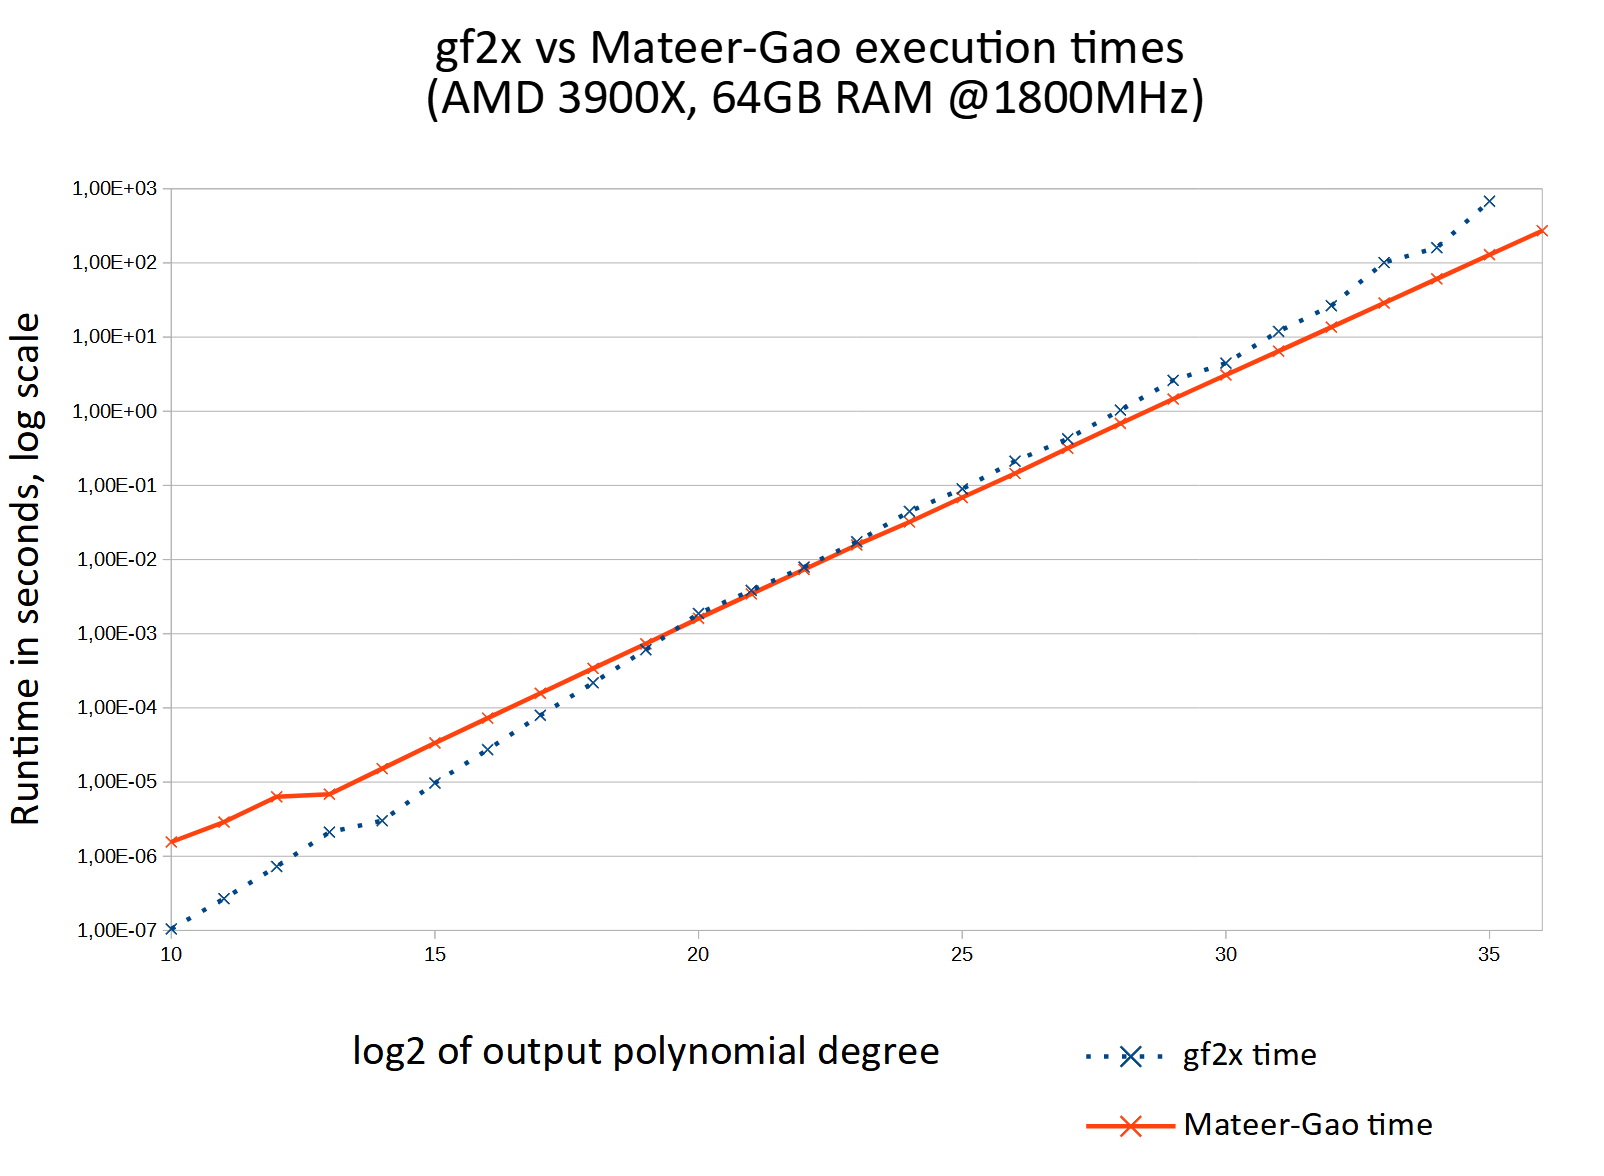
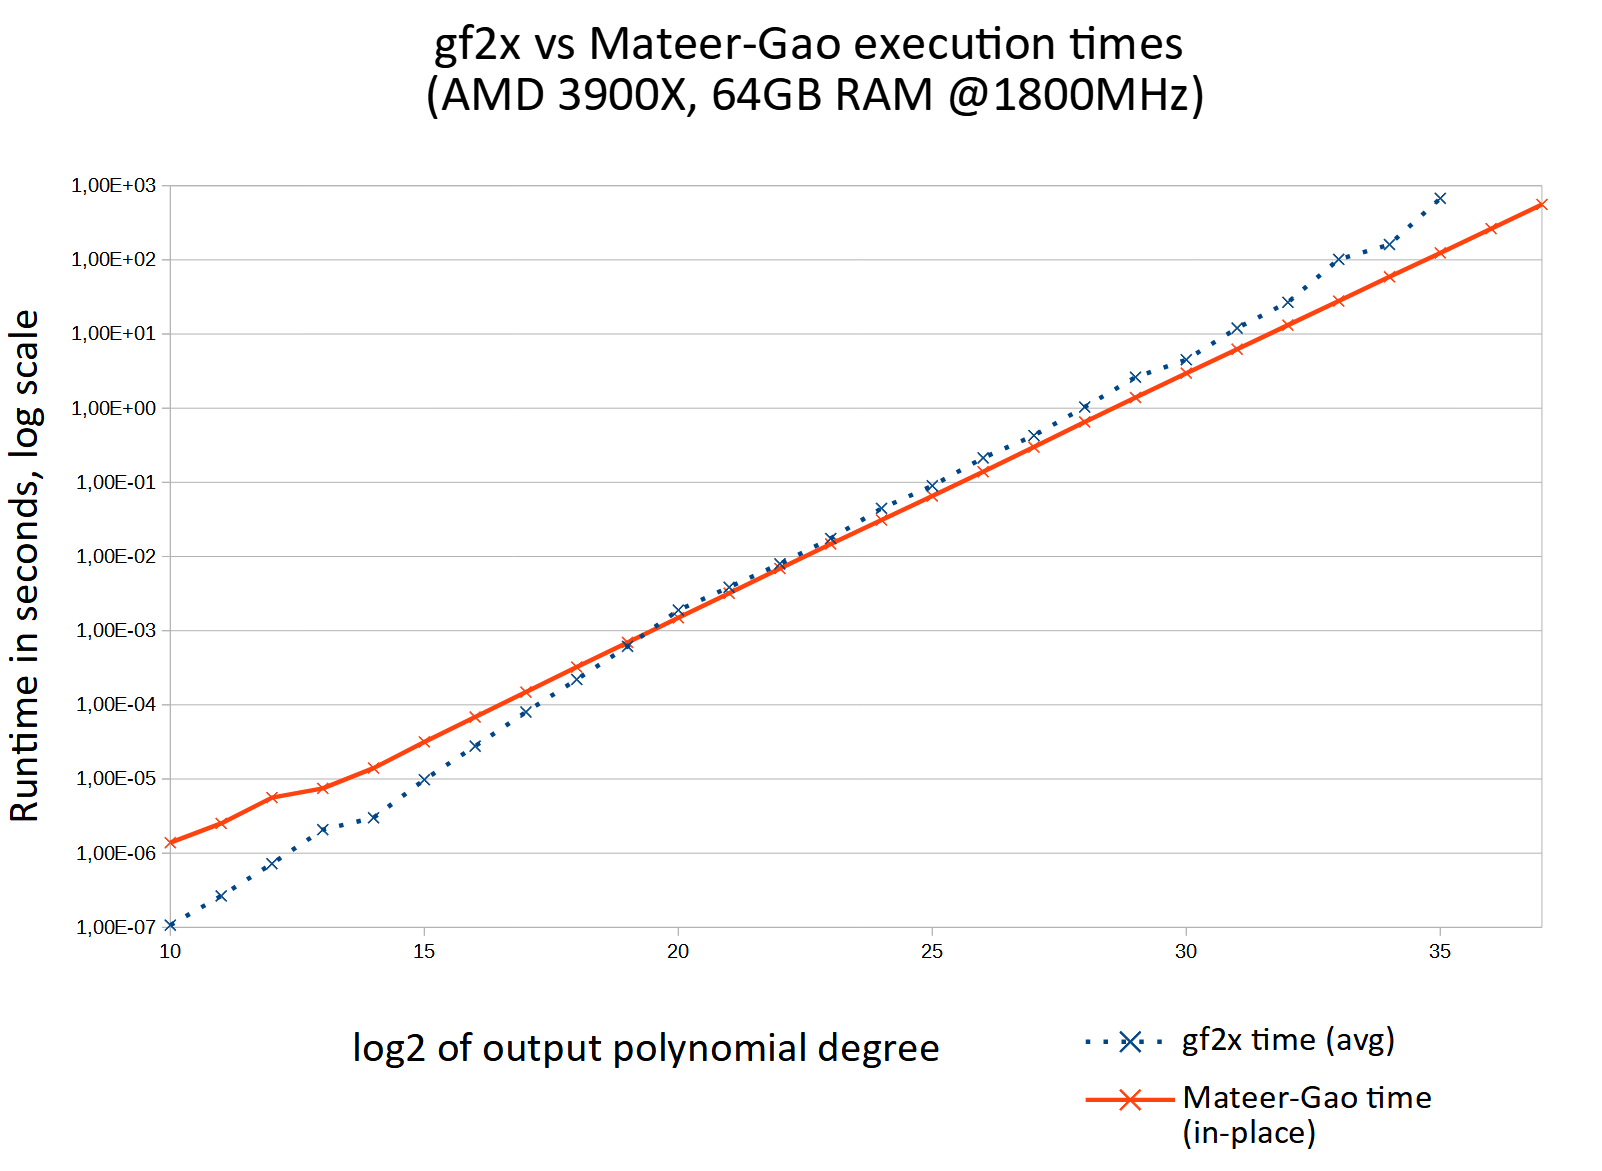
update documentation

diff --git a/README.md b/README.md
@@ -17,37 +17,40 @@ Mateer-Gao DFT (and crucially, its truncated implementation) is used to implemen
 
 The DFT approach is tested by multiplying polynomials of degree 2<sup>u-1</sup> - 1 for values of u s.t. the computations fit into memory. It is slower than gf2x for small sizes (u < 20), and faster beyond that. It also appears to use less memory for large sizes. Beyond the buffer to store the result, the Mateer-Gao product function uses 4 times the memory required for the result size, rounded to the next power of two.
 
-Experiments on an AMD 3900X PC with 64GB of RAM are summarized below.
+Both a variant that leaves its arguments unchanged and an in-place product variant are provided. The in-place variant uses less memory and is slightly faster.
 
-|u = output log2 size|gf2x product time (sec.)|Mateer-Gao product time (sec.)|
+Experiments on an AMD 3900X PC with 64GB of RAM are summarized below. Results are for the in-place product variant.
+
+|Output log2 size|gf2x product time (sec.)|Mateer-Gao product time (sec.)|
 |:----:|:----:|:----:|
-|10| 1.04702e-07| 1.55653e-06|
-|11| 2.68164e-07| 2.89191e-06|
-|12| 7.27469e-07| 6.32747e-06|
-|13| 2.1147e-06| 6.86151e-06|
-|14| 3.01368e-06| 1.5177e-05|
-|15| 9.6984e-06| 3.36861e-05|
-|16| 2.74011e-05| 7.2759e-05|
-|17| 7.94745e-05| 0.00015739|
-|18| 0.000217923| 0.000341152|
-|19| 0.000608785| 0.000730794|
-|20| 0.00187449| 0.00161085|
-|21| 0.00383994| 0.00344927|
-|22| 0.00792871| 0.00736224|
-|23| 0.0173911| 0.0157705|
-|24| 0.0446058| 0.0321648|
-|25| 0.0897099| 0.0685952|
-|26| 0.212486| 0.145032|
-|27| 0.424994| 0.316625|
-|28| 1.03537| 0.686158|
-|29| 2.60567| 1.45992|
-|30| 4.4542| 3.08745|
-|31| 11.9174| 6.4638|
-|32| 26.4949| 13.6163|
-|33| 101.108| 28.7695|
-|34| 160.492| 60.9985|
-|35| 678.952| 129.156|
-|36| not enough memory| 271.887|
+|10| 1.09431e-07| 1.38589e-06|
+|11| 2.62482e-07| 2.52093e-06|
+|12| 7.15466e-07| 5.61545e-06|
+|13| 2.03284e-06| 7.47628e-06|
+|14| 2.99103e-06| 1.4035e-05|
+|15| 9.9116e-06| 3.16259e-05|
+|16| 2.81112e-05| 6.83873e-05|
+|17| 8.04921e-05| 0.00014863|
+|18| 0.000221933| 0.000323124|
+|19| 0.000619341| 0.0006945|
+|20| 0.00191297| 0.00149074|
+|21| 0.00386728| 0.00319287|
+|22| 0.00798317| 0.00689116|
+|23| 0.0175718| 0.0147847|
+|24| 0.044663| 0.0310474|
+|25| 0.0901284| 0.0653282|
+|26| 0.214669| 0.138846|
+|27| 0.431616| 0.299029|
+|28| 1.03791| 0.651955|
+|29| 2.62693| 1.39348|
+|30| 4.54754| 2.96513|
+|31| 12.119| 6.23943|
+|32| 27.0756| 13.1931|
+|33| 101.915| 27.8231|
+|34| 161.692| 59.1067|
+|35| 671.035| 124.084|
+|36| not enough memory| 263.476|
+|37| not enough memory| 558.934|
 
 ![Execution times](https://github.com/kunzjacq/Additive_DFTs/blob/master/times.png?raw=true)
 
@@ -76,6 +79,4 @@ For target `fft_test`, the binary field and the size of a buffer used in tests d
 
 Target `product_test` requires a compiled version of gf2x for the target platform to be placed in `lib/` (for Linux) or `lib_mingw/` (for Windows). The finite field used is GF(2<sup>64</sup>).
 
-## TODO
-  * Improve the memory usage of the product function. If v is the storage required for the output polynomial rounded to the next power of two, the additional memory required can be reduced from 4v to 3v at no computational cost. It can be further reduced with an increase of computation time.
 
